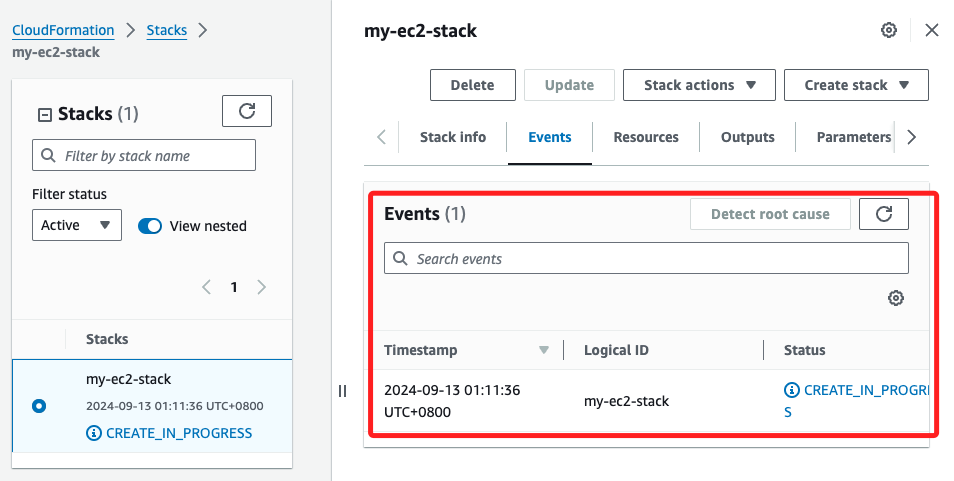
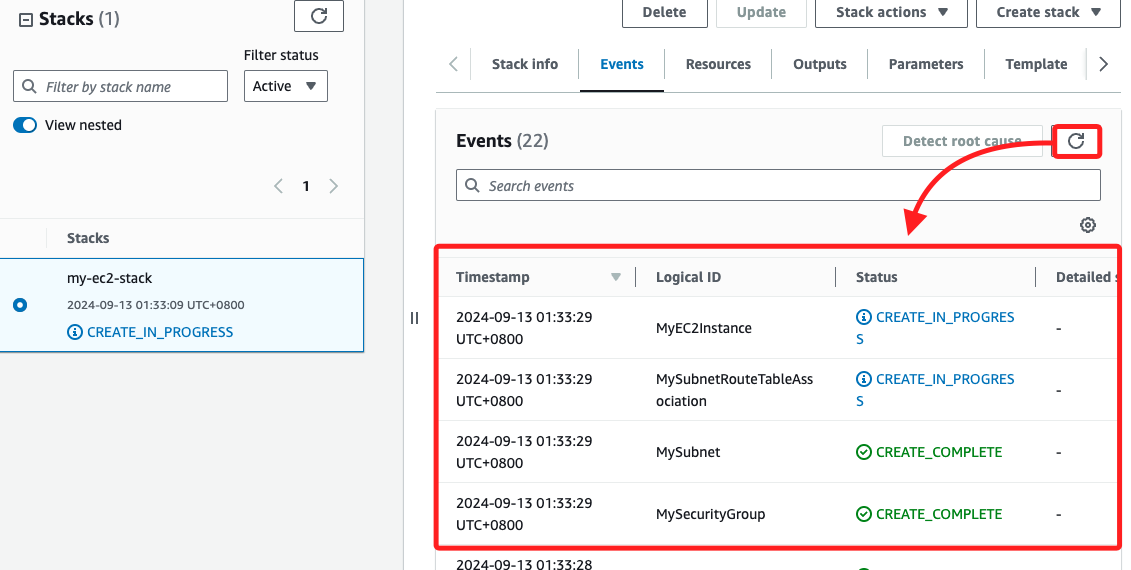
Commit on 2024-09-13 02:34:02

diff --git a/01_課程筆記/20240905/02_0912/04_YAML.md b/01_課程筆記/20240905/02_0912/04_YAML.md
@@ -1,12 +1,12 @@
 # YAML
 
-_任務：使用 `.yaml` 一鍵式建立雲計算環境；這裡以 `EC2` 為例_
+_以下嘗試完成老師上課時提到的使用 `.yaml` 腳本自動化建立雲計算 `EC2` 環境任務_
 
 <br>
 
-## 實作
+## 步驟紀錄
 
-_可用 `AWS CloudFormation` 完成一鍵式建立雲計算環境，透過 `.yaml` 或 `.json` 格式的模板來自動化基礎架構的部署和管理，部署 CloudFormation Stack 可通過控制台或 AWS CLI 進行。_ 
+_使用 `CloudFormation` 完成自動化建立雲計算環境任務，可透過 `.yaml` 或 `.json` 格式的模板進行部署和管理 CloudFormation Stack，以下分別使用主控台 與 CLI 來進行，既然使用了模板，這裡就暫不使用 SDK 部署。_ 
 
 <br>
 
@@ -218,39 +218,266 @@ _配置堆疊選項_
 
 <br>
 
-## 
+6. 完成時顯示 `CREATE_COMPLETE`。
 
-7. 使用 AWS CLI 部署 CloudFormation Stack；確保已安裝並配置好 AWS CLI；以下建立一個 CloudFormation Stack 並命名為 `my-ec2-stack`，並根據模板建立 EC2 實例及其相關的網路資源。
+    ![](images/img_16.png)
 
-```bash
-aws cloudformation create-stack \
-  --stack-name my-ec2-stack \
-  --template-body file://cloudformation-template.yaml \
-  --capabilities CAPABILITY_NAMED_IAM
-```
+<br>
 
+## 查詢
 
+1. 進入 EC2 可查看建立的實例。
 
+    ![](images/img_17.png)
 
-5. 部署完成後，使用 AWS CLI 獲取 EC2 實例信息驗證資源是否正確建立；這將返回 Stack 的詳細信息，並可使用返回的公有 IP 來連接到 EC2 實例。
+<br>
 
+2. 查看安全群組。
 
-```bash
-aws cloudformation describe-stacks --stack-name my-ec2-stack
-```
+    ![](images/img_18.png)
 
+<br>
 
+3. 在 `CloudFormation` 的 `Resources` 頁籤中可查看更詳盡的資訊。
 
-4. 使用 SSH 讀取 `Key Pair` 文件連接到 EC2 實例
+    ![](images/img_19.png)
 
-```bash
-ssh -i my-key-pair.pem ec2-user@<公共 IP>
-```
+<br>
 
-5. 刪除 CloudFormation Stack。
+## 使用 CLI 部署 CloudFormation Stack
 
-```bash
-aws cloudformation delete-stack --stack-name my-ec2-stack
-```
+_確保已安裝並配置好 AWS CLI_
 
-6. 以上使用 AWS CloudFormation 和 YAML 模板一鍵式地建立雲計算環境，包含 VPC、子網路、網際網路閘道、安全群組，並啟動一個 EC2 實例；除此，可修改這個模板添加其他 AWS 資源如 S3、RDS 等。
+<br>
+
+1. 確認腳本所在路徑。
+
+    ![](images/img_24.png)
+
+<br>
+
+2. 開啟終端機運行以下指令，這會建立一個 CloudFormation Stack 並命名為 `my-ec3-stack`，並根據模板建立 EC2 實例及其相關的網路資源；使用 `file://` 路徑來指向模板。
+
+    ```bash
+    aws cloudformation create-stack \
+    --stack-name my-ec3-stack \
+    --template-body file:///Volumes/SSD_01/00_課程講義專用/AWS_2024/01_課程筆記/20240905/02_0912/00_template/cloudformation-template.yaml \
+    --capabilities CAPABILITY_NAMED_IAM
+    ```
+
+<br>
+
+3. 部署完成後，使用 AWS CLI 查詢 EC2 實例信息，驗證資源是否正確建立；這將返回 Stack 的詳細信息。
+
+    ```bash
+    aws cloudformation describe-stacks --stack-name my-ec3-stack
+    ```
+
+<br>
+
+4. 僅查詢公共 IP。
+
+    ```bash
+    aws cloudformation describe-stacks \
+      --stack-name my-ec3-stack \
+      --query "Stacks[0].Outputs[?OutputKey=='PublicIP'].OutputValue" \
+      --output text
+    ```
+
+    ![](images/img_25.png)
+
+<br>
+
+5. 進入 `.pem` 所在路徑，先依據官網只是，降低授權到 `400`。
+
+    ```bash
+    chmod 400 my-key-pair.pem 
+    ```
+
+    _查詢、授權、確認_
+
+    ![](images/img_26.png)
+
+<br>
+
+6. 使用 SSH 讀取 `Key Pair` 文件連接到 EC2 實例的公共 IP，在這裡是 `52.91.88.126`。 
+
+    ```bash
+    ssh -i my-key-pair.pem ec2-user@<公共 IP>
+    ```
+
+    ![](images/img_27.png)
+
+<br>
+
+## 徹底刪除
+
+_包括 堆疊、VPC、安全群組_
+
+<br>
+
+1. 刪除 CloudFormation 堆疊；另外，CloudFormation 會自動處理資源的刪除，所以當刪除 堆疊時，會自動刪除該堆疊中創建的所有資源，包括 EC2 實例、VPC、子網、路由表、安全群組等。
+
+    ```bash
+    aws cloudformation delete-stack --stack-name my-ec2-stack
+    ```
+
+<br>
+
+2. 確認堆疊的刪除進度。
+
+    ```bash
+    aws cloudformation describe-stacks --stack-name my-ec2-stack
+    ```
+
+<br>
+
+## 手動刪除 VPC
+
+_如果 VPC 沒有被自動刪除，可手動刪除 VPC_
+
+<br>
+
+1. 列出所有 VPC。
+
+    ```bash
+    aws ec2 describe-vpcs --query "Vpcs[*].[VpcId,Tags]" --output table
+    ```
+
+    ![](images/img_20.png)
+
+<br>
+
+2. 確認是否為預設的 VPC；如果返回 `true` 則代表這是預設的 VPC，不建議刪除。
+
+    ```bash
+    aws ec2 describe-vpcs --vpc-ids vpc-0bc382c104053eb24 --query "Vpcs[0].IsDefault"
+    ```
+
+<br>
+
+3. 若確認是其他方式建立且無用的 VPC，可根據目標 ID 進行刪除。
+
+    ```bash
+    aws ec2 delete-vpc --vpc-id <輸入目標識別 ID>
+    ```
+
+<br>
+
+## 手動刪除安全群組
+
+_與前面相同，如果安全群組沒有被自動刪除，可手動進行刪除_
+
+<br>
+
+1. 列出所有安全群組。
+
+    ```bash
+    aws ec2 describe-security-groups --query "SecurityGroups[*].[GroupId,GroupName,Tags]" --output table
+    ```
+
+    ![](images/img_21.png)
+
+<br>
+
+2. 可透過指令進行手動刪除安全群組。
+
+    ```bash
+    aws ec2 delete-security-group --group-id <安全群組 ID>
+    ```
+
+<br>
+
+## 刪除子網
+
+_手動刪除子網_
+
+<br>
+
+1. 列出所有子網。
+
+    ```bash
+    aws ec2 describe-subnets --query "Subnets[*].[SubnetId,Tags]" --output table
+    ```
+
+<br>
+
+2. 刪除指定子網。
+
+    ```bash
+    aws ec2 delete-subnet --subnet-id <指定子網 ID>
+    ```
+
+<br>
+
+## 刪除網際網路閘道
+
+1. 舉例來說，若要刪除以下的閘道 `igw-0b609a15f8ee56719`。
+
+    ![](images/img_22.png)
+
+<br>
+
+2. 先分離閘道與 VPC `vpc-0bc382c104053eb24` 的關聯。
+
+    ```bash
+    aws ec2 detach-internet-gateway --internet-gateway-id `<如上閘道 ID>` --vpc-id `<如上 VPC ID>`
+    ```
+
+<br>
+
+3. 刪除指定閘道。
+
+    ```bash
+    aws ec2 delete-internet-gateway --internet-gateway-id `<指定閘道 ID>`
+    ```
+
+<br>
+
+## 檢查所有資源是否被刪除
+
+1. VPC。
+
+    ```bash
+    aws ec2 describe-vpcs --query "Vpcs[*].[VpcId,Tags]" --output table
+    ```
+
+<br>
+
+2. 安全群組。
+
+    ```bash
+    aws ec2 describe-security-groups --query "SecurityGroups[*].[GroupId,GroupName,Tags]" --output table
+    ```
+
+<br>
+
+3. 子網。
+
+    ```bash
+    aws ec2 describe-subnets --query "Subnets[*].[SubnetId,Tags]" --output table
+    ```
+
+<br>
+
+4. 閘道。
+
+    ```bash
+    aws ec2 describe-internet-gateways --output table
+    ```
+
+<br>
+
+## 確認 CloudFormation 堆疊已完全刪除
+
+    ```bash
+    aws cloudformation describe-stacks --stack-name my-ec2-stack
+    ```
+
+    ![](images/img_23.png)
+
+<br>
+
+___
+
+_END_
